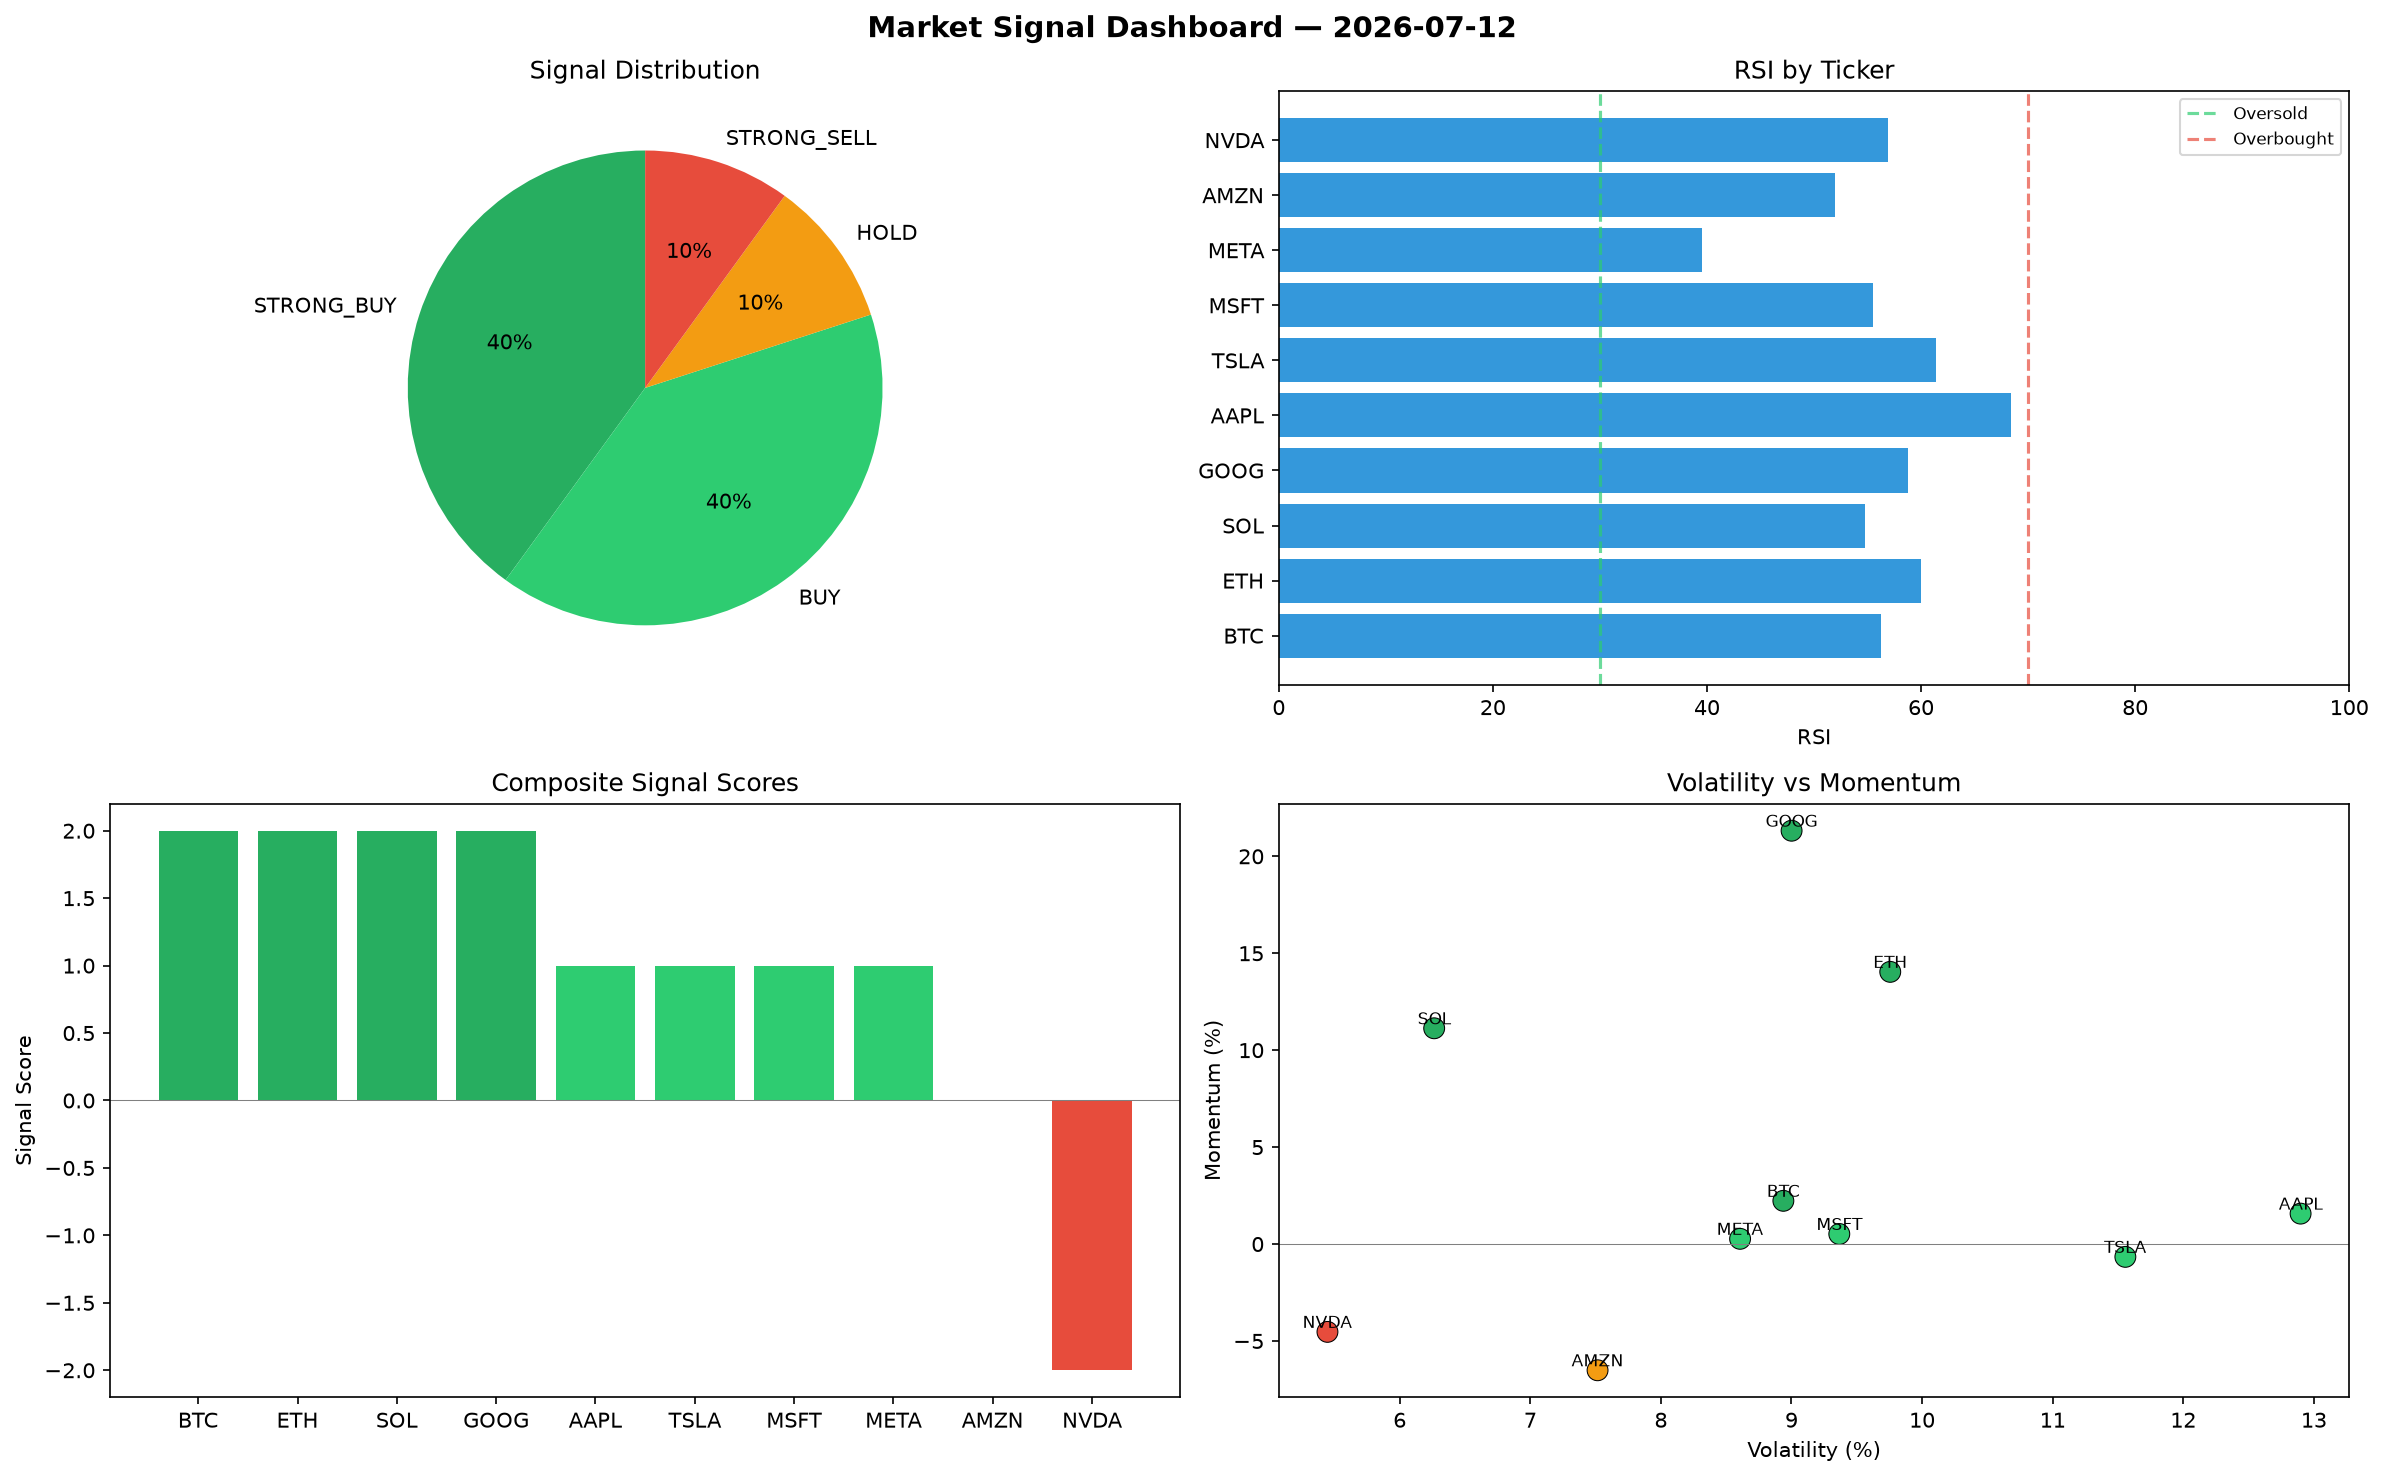
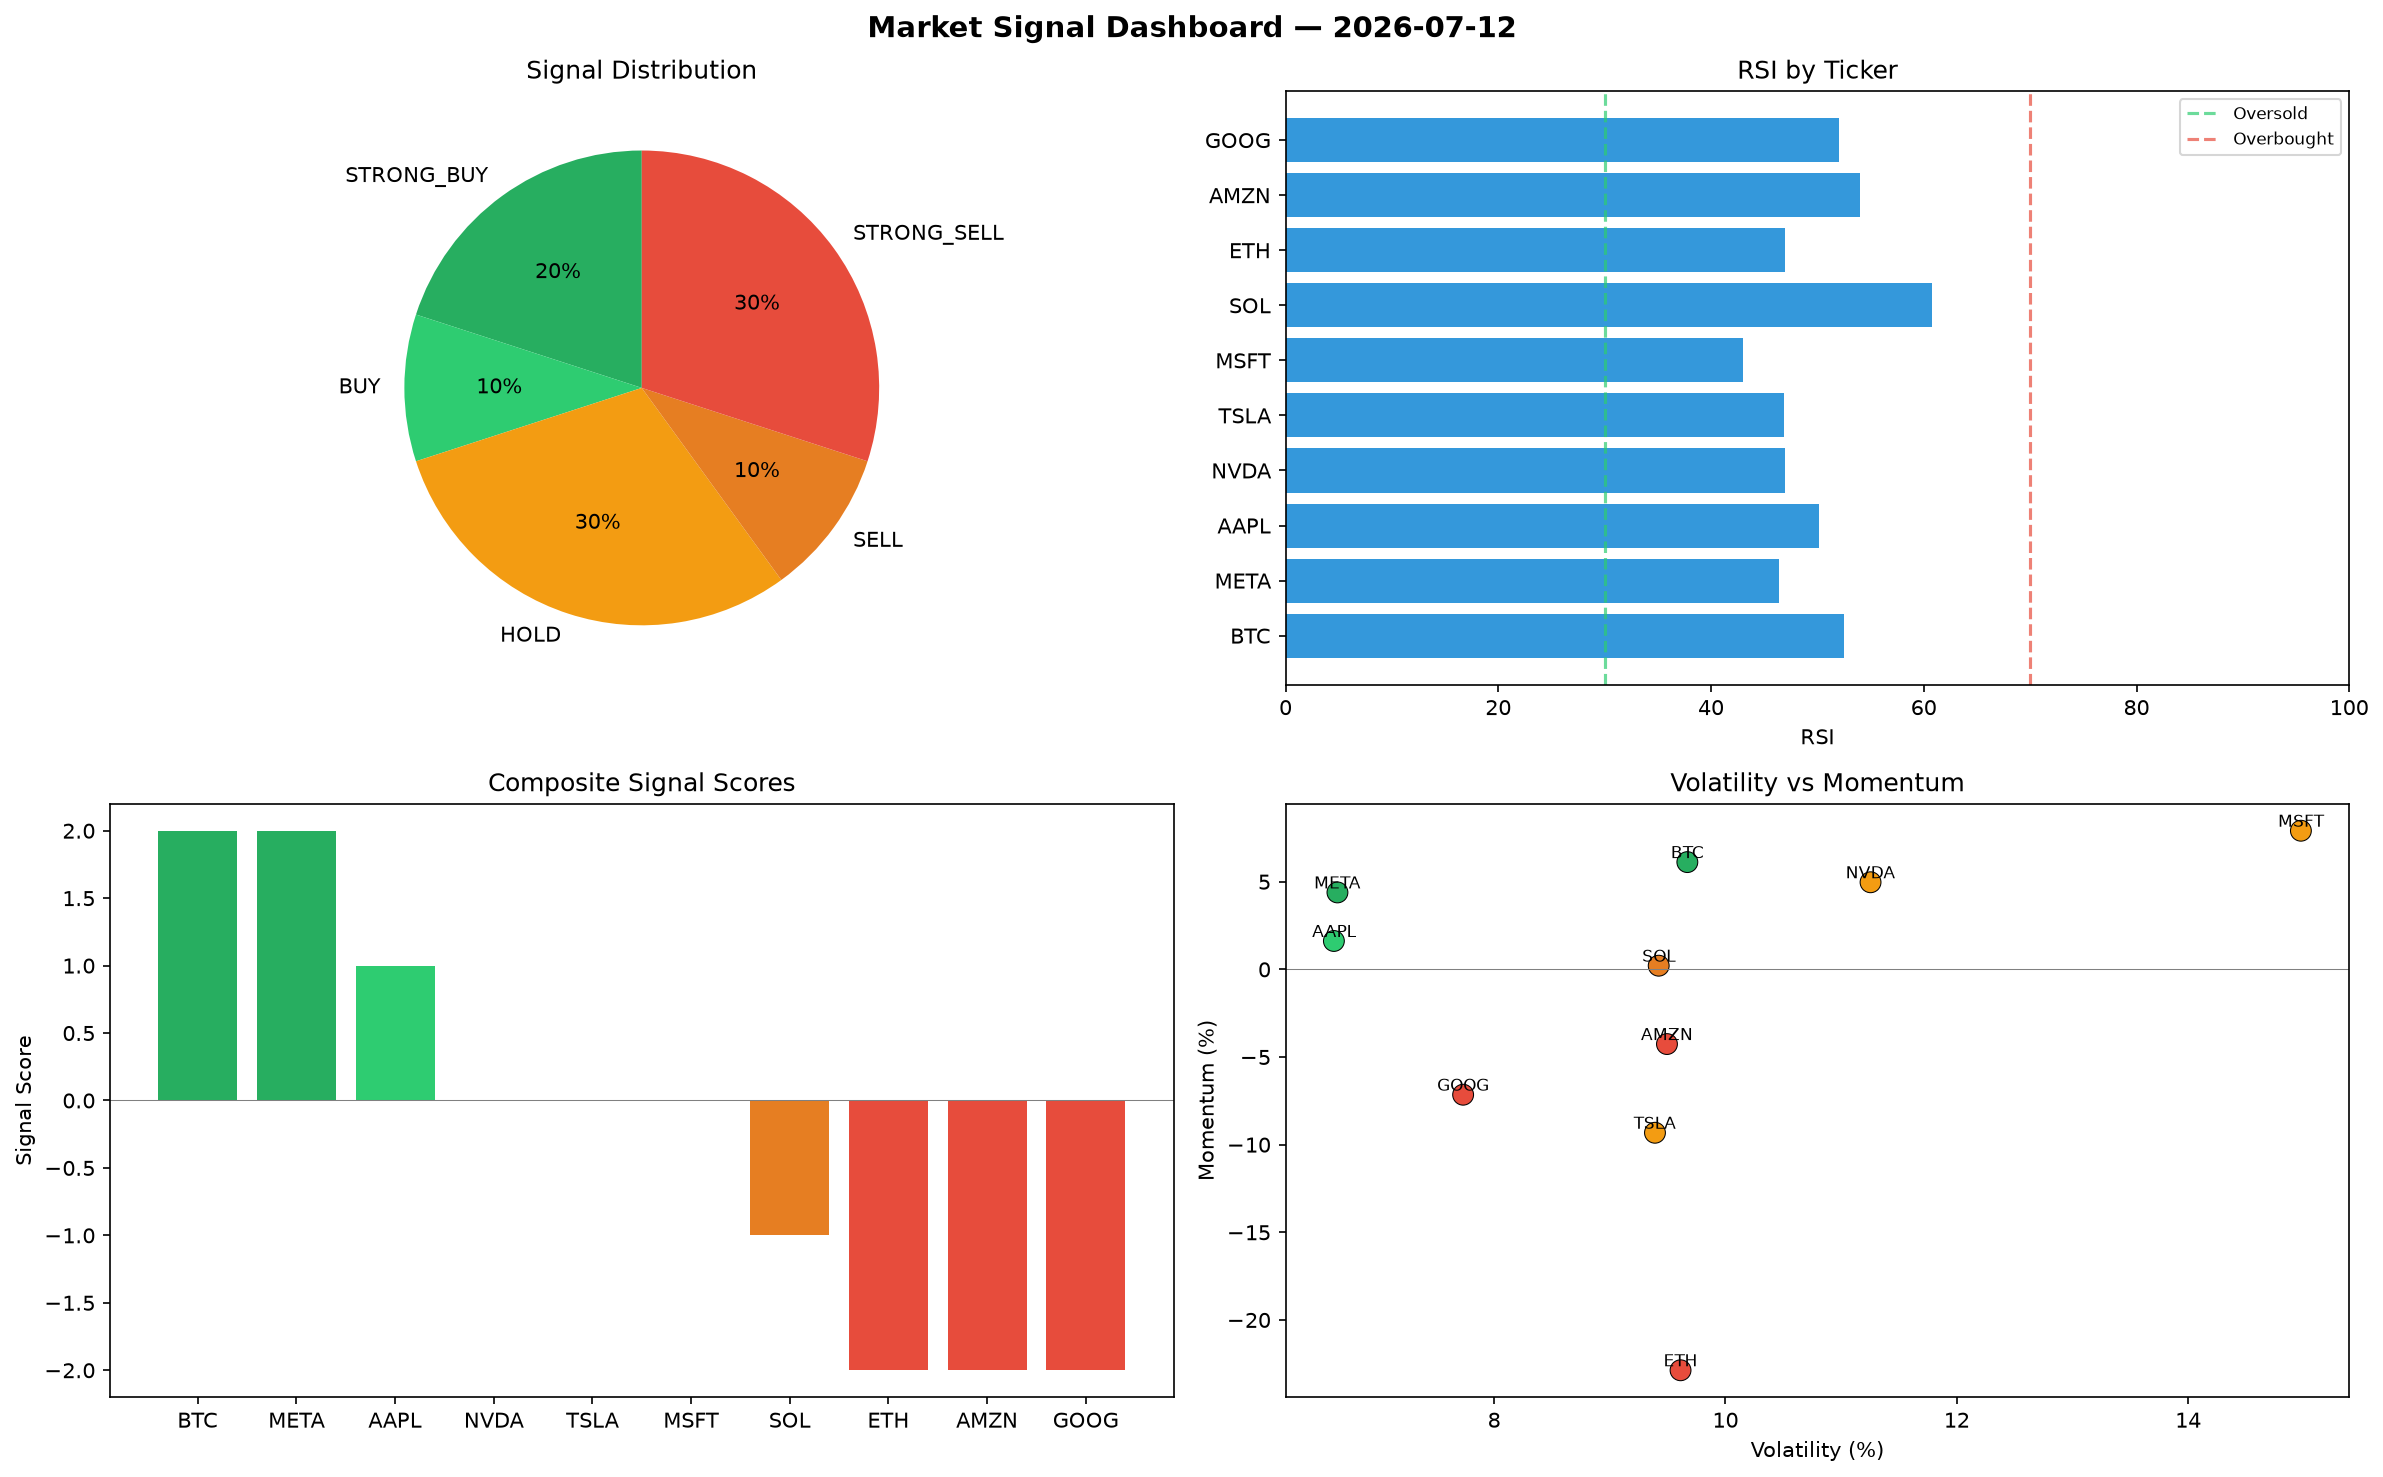
automated-bots: market signals 2026-07-12T15:33

diff --git a/logs/2026-07-12.md b/logs/2026-07-12.md
@@ -1,6 +1,6 @@
 # Market Signal Report — 2026-07-12
 
-**Run ID:** `21525e8e13` | **Buy:** 8 | **Sell:** 1 | **Hold:** 1
+**Run ID:** `8745e7bb97` | **Buy:** 3 | **Sell:** 4 | **Hold:** 3
 
 ![Dashboard](2026-07-12_dashboard.png)
 
@@ -8,28 +8,28 @@
 
 | Ticker | Price | Signal | Score | RSI | Momentum | Confidence |
 |--------|-------|--------|-------|-----|----------|------------|
-| BTC | $3047.78 | **STRONG_BUY** | 2 | 56.22 | 0.0223 | 0.5 |
-| ETH | $127.53 | **STRONG_BUY** | 2 | 59.99 | 0.1404 | 0.5 |
-| SOL | $796.36 | **STRONG_BUY** | 2 | 54.76 | 0.1113 | 0.5 |
-| GOOG | $6083.74 | **STRONG_BUY** | 2 | 58.78 | 0.2132 | 0.5 |
-| AAPL | $2553.9 | **BUY** | 1 | 68.37 | 0.0157 | 0.25 |
-| TSLA | $1002.19 | **BUY** | 1 | 61.36 | -0.0066 | 0.25 |
-| MSFT | $1444.09 | **BUY** | 1 | 55.54 | 0.0052 | 0.25 |
-| META | $3473.33 | **BUY** | 1 | 39.54 | 0.0027 | 0.25 |
-| AMZN | $3671.54 | **HOLD** | 0 | 51.98 | -0.0651 | 0.0 |
-| NVDA | $4597.61 | **STRONG_SELL** | -2 | 56.91 | -0.0453 | 0.5 |
+| BTC | $3416.62 | **STRONG_BUY** | 2 | 52.51 | 0.0612 | 0.5 |
+| META | $3447.36 | **STRONG_BUY** | 2 | 46.43 | 0.0439 | 0.5 |
+| AAPL | $3171.43 | **BUY** | 1 | 50.17 | 0.0162 | 0.25 |
+| NVDA | $2276.9 | **HOLD** | 0 | 46.97 | 0.0497 | 0.0 |
+| TSLA | $150.83 | **HOLD** | 0 | 46.88 | -0.0932 | 0.0 |
+| MSFT | $938.71 | **HOLD** | 0 | 43.05 | 0.0791 | 0.0 |
+| SOL | $2653.64 | **SELL** | -1 | 60.75 | 0.0021 | 0.25 |
+| ETH | $139.48 | **STRONG_SELL** | -2 | 46.95 | -0.2287 | 0.5 |
+| AMZN | $4243.95 | **STRONG_SELL** | -2 | 53.98 | -0.0426 | 0.5 |
+| GOOG | $3244.35 | **STRONG_SELL** | -2 | 52.0 | -0.0715 | 0.5 |
 
 ## Delta vs Yesterday
 
 | Ticker | Today | Yesterday | Price Change | Signal Changed |
 |--------|-------|-----------|-------------|----------------|
-| BTC | STRONG_BUY | HOLD | 📈 1978.55% | ⚠ YES |
-| ETH | STRONG_BUY | STRONG_SELL | 📉 -93.5% | ⚠ YES |
-| SOL | STRONG_BUY | STRONG_BUY | 📉 -83.38% | — |
-| GOOG | STRONG_BUY | HOLD | 📈 126.99% | ⚠ YES |
-| AAPL | BUY | STRONG_SELL | 📉 -36.95% | ⚠ YES |
-| TSLA | BUY | STRONG_BUY | 📈 1.8% | ⚠ YES |
-| MSFT | BUY | BUY | 📈 20.3% | — |
-| META | BUY | STRONG_SELL | 📈 114.24% | ⚠ YES |
-| AMZN | HOLD | HOLD | 📈 24.23% | — |
-| NVDA | STRONG_SELL | STRONG_SELL | 📈 9.28% | — |
+| BTC | STRONG_BUY | HOLD | 📈 2230.1% | ⚠ YES |
+| META | STRONG_BUY | STRONG_SELL | 📈 112.64% | ⚠ YES |
+| AAPL | BUY | STRONG_SELL | 📉 -21.71% | ⚠ YES |
+| NVDA | HOLD | STRONG_SELL | 📉 -45.88% | ⚠ YES |
+| TSLA | HOLD | STRONG_BUY | 📉 -84.68% | ⚠ YES |
+| MSFT | HOLD | BUY | 📉 -21.8% | ⚠ YES |
+| SOL | SELL | STRONG_BUY | 📉 -44.63% | ⚠ YES |
+| ETH | STRONG_SELL | STRONG_SELL | 📉 -92.89% | — |
+| AMZN | STRONG_SELL | HOLD | 📈 43.59% | ⚠ YES |
+| GOOG | STRONG_SELL | HOLD | 📈 21.05% | ⚠ YES |
